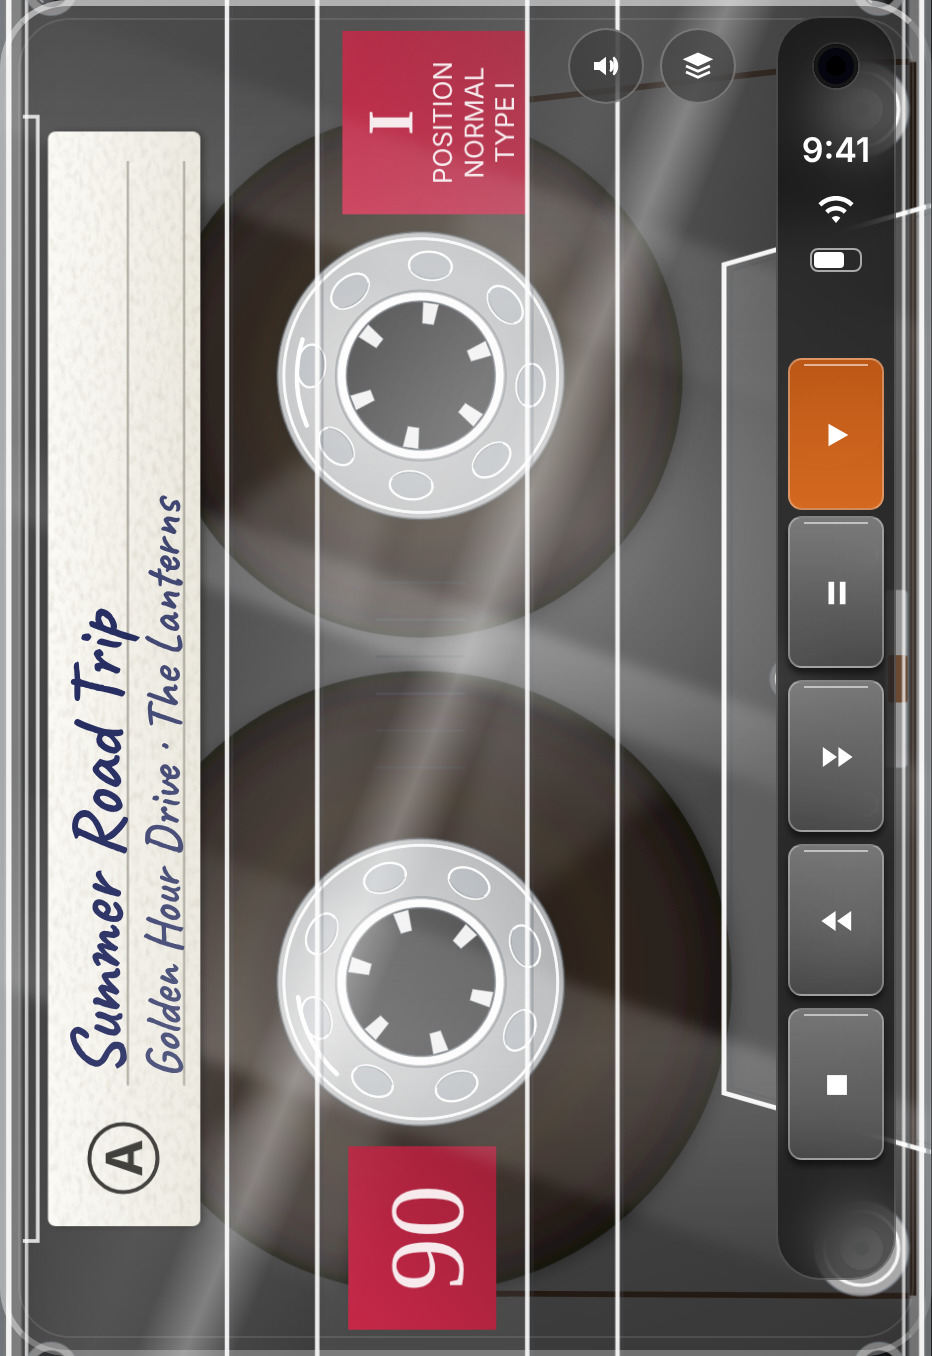
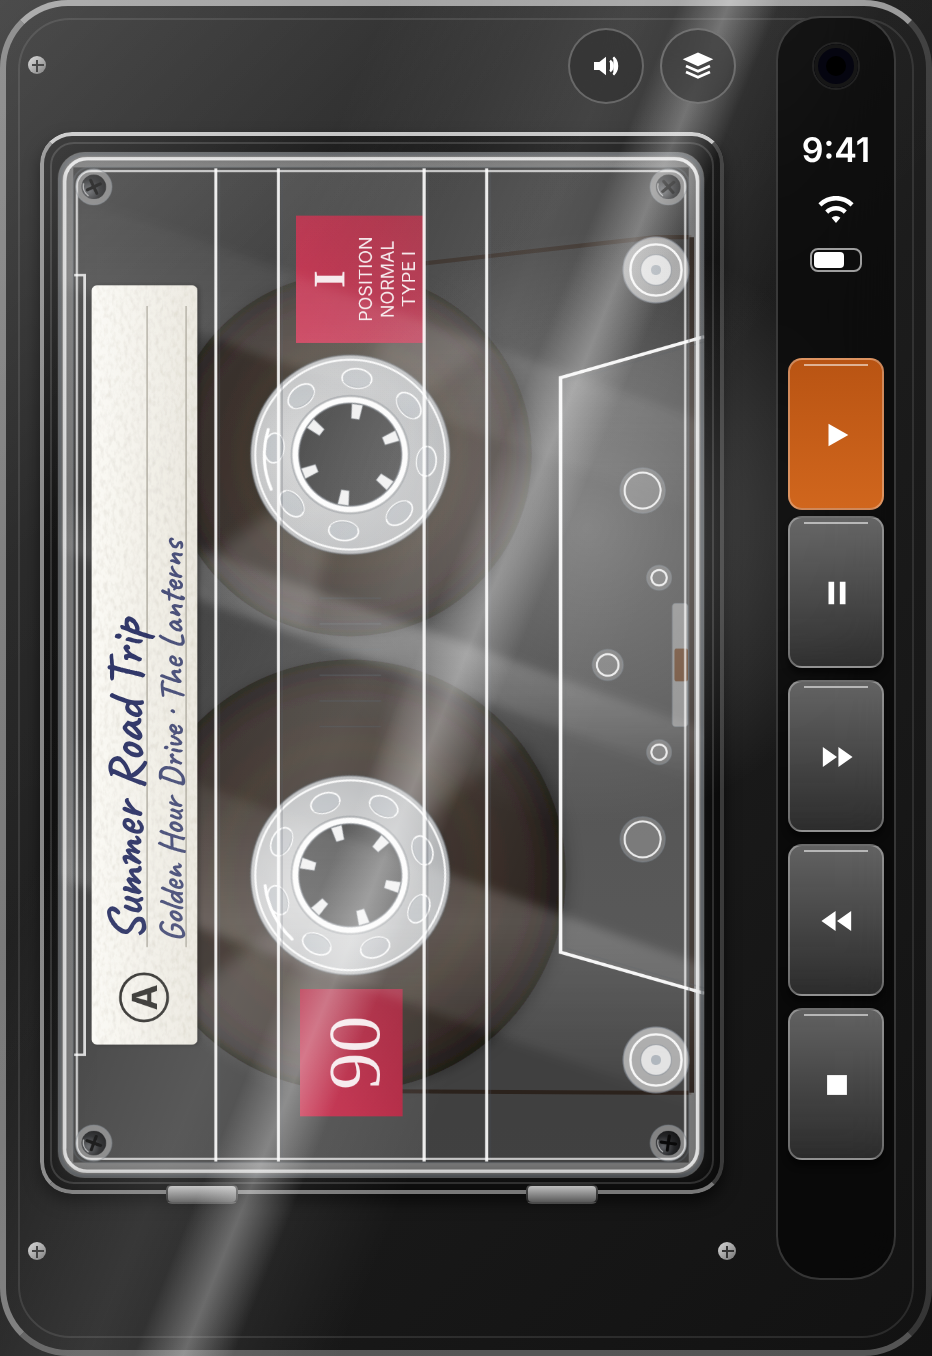
Seat the cassette inside the player body
The closed screen is now the body of the player, with the cassette in a
recessed compartment behind a clear hinged door instead of filling the
screen under floating controls.

Claude-Session: https://claude.ai/code/session_015CNmSEpanpmujmbPK8yXHv

diff --git a/TapeDeck/DeckView.swift b/TapeDeck/DeckView.swift
@@ -1,7 +1,8 @@
 import SwiftUI
 
-/// The closed phone: a tape player with a clear case. The cassette fills the
-/// whole screen, and the buttons and keys are clear plastic floating over it.
+/// The closed phone: the whole screen is the body of a tape player in dark
+/// clear plastic. The cassette sits inside it, seated in a recessed
+/// compartment behind a clear door, with the body wrapping around it.
 ///
 /// Laid out for the iPhone Duo's outer display: 466 x 678 points, with an
 /// 84 point column down one side that iOS reports as a safe area inset. The
@@ -40,10 +41,9 @@ struct DeckView: View {
                    height: geo.size.height + insets.top + insets.bottom)
             .background(
                 ZStack {
-                    // Dark inside of the player, seen through the clear case
-                    RadialGradient(colors: [Color(white: 0.17), Color(white: 0.03)],
-                                   center: .center, startRadius: 20, endRadius: 520)
-                    tape
+                    // The body of the player: dark smoked plastic
+                    LinearGradient(colors: [Color(white: 0.20), Color(white: 0.11), Color(white: 0.07)],
+                                   startPoint: .topLeading, endPoint: .bottomTrailing)
                     clearCase
                 }
             )
@@ -51,44 +51,111 @@ struct DeckView: View {
         }
     }
 
-    // MARK: Tape
+    // MARK: Cassette compartment
 
-    /// The cassette, scaled to fill the screen. It stands on end when the
-    /// screen is taller than wide. It may overflow the edges a little, but
-    /// never so far that the label is lost.
-    private var tape: some View {
+    /// The compartment the cassette sits in: a recessed well, the cassette
+    /// seated in it (on end when the space is taller than wide, head opening
+    /// toward the keys), and the clear door over the top with its hinges.
+    private var compartment: some View {
         GeometryReader { geo in
             let upright = geo.size.height > geo.size.width
-            let long = upright ? geo.size.height : geo.size.width
-            let short = upright ? geo.size.width : geo.size.height
-            let fit = min(long / 100, short / 63)
-            let fill = max(long / 100, short / 63)
-            let scale = min(fill, fit * 1.10)
+            let aspect: CGFloat = upright ? 0.63 : 1 / 0.63
+            let rim: CGFloat = 9
+            let width = max(10, min(geo.size.width - 2 * rim, (geo.size.height - 2 * rim - 8) * aspect))
+            let height = width / aspect
+            let shape = RoundedRectangle(cornerRadius: 16)
             ZStack {
+                // The well, with shadow falling in from its edges
+                shape.fill(LinearGradient(colors: [Color.black, Color(white: 0.06)],
+                                          startPoint: .top, endPoint: .bottom))
                 if model.hasTape {
                     CassetteView(title: model.tapeTitle,
                                  subtitle: model.trackLine,
                                  progress: model.progress,
                                  motion: model.motion)
-                        .frame(width: 100 * scale, height: 63 * scale)
+                        .frame(width: upright ? height : width, height: upright ? width : height)
                         .rotationEffect(.degrees(upright ? -90 : 0))
                         .transition(.move(edge: .top).combined(with: .opacity))
                 } else {
-                    VStack(spacing: 8) {
-                        Image(systemName: "eject.fill").font(.system(size: 30))
-                        Text("NO TAPE").font(.system(size: 16, weight: .bold)).tracking(3)
-                        Text("Tap to choose one").font(.system(size: 12))
-                    }
-                    .foregroundColor(Color.white.opacity(0.5))
+                    emptyWell(upright: upright, length: upright ? height : width)
                 }
+                shape.strokeBorder(Color.black.opacity(0.85), lineWidth: 9).blur(radius: 6)
+
+                // The clear door
+                shape.fill(Color.white.opacity(0.035))
+                shape.fill(LinearGradient(colors: [Color.white.opacity(0.14), Color.white.opacity(0.02), .clear],
+                                          startPoint: .topLeading, endPoint: .center))
+                RoundedRectangle(cornerRadius: 12)
+                    .strokeBorder(Color.white.opacity(0.14), lineWidth: 1)
+                    .padding(5)
             }
+            .frame(width: width + 2 * rim, height: height + 2 * rim)
+            .clipShape(shape)
+            // Bright moulded edge of the door
+            .overlay(
+                shape.strokeBorder(LinearGradient(colors: [Color.white.opacity(0.75), Color.white.opacity(0.18),
+                                                           Color.white.opacity(0.45)],
+                                                  startPoint: .topLeading, endPoint: .bottomTrailing),
+                                   lineWidth: 2.5)
+            )
+            // Hinges along the bottom edge
+            .overlay(alignment: .bottom) {
+                HStack(spacing: (width + 2 * rim) * 0.42) {
+                    hinge
+                    hinge
+                }
+                .offset(y: 5)
+            }
+            .shadow(color: .black.opacity(0.6), radius: 8, y: 4)
             .frame(width: geo.size.width, height: geo.size.height)
-            .clipped()
+            .contentShape(Rectangle())
+            .onTapGesture {
+                if !model.hasTape { openShelf() }
+            }
         }
     }
 
-    /// The clear shell over everything: a fixed reflection, the glare that
-    /// follows the phone as it moves, and bright edges where the plastic curves.
+    private var hinge: some View {
+        RoundedRectangle(cornerRadius: 3)
+            .fill(LinearGradient(colors: [Color(white: 0.75), Color(white: 0.35)],
+                                 startPoint: .top, endPoint: .bottom))
+            .overlay(RoundedRectangle(cornerRadius: 3).strokeBorder(Color.black.opacity(0.6), lineWidth: 0.75))
+            .frame(width: 36, height: 10)
+            .accessibilityHidden(true)
+    }
+
+    /// The well with nothing in it: the two drive spindles and a prompt.
+    private func emptyWell(upright: Bool, length: CGFloat) -> some View {
+        let u = length / 100
+        let spindle = ZStack {
+            Circle().fill(LinearGradient(colors: [Color(white: 0.55), Color(white: 0.2)],
+                                         startPoint: .topLeading, endPoint: .bottomTrailing))
+            ForEach(0..<3, id: \.self) { prong in
+                Capsule().fill(Color(white: 0.75))
+                    .frame(width: 1.6 * u, height: 4.4 * u)
+                    .offset(y: -3.4 * u)
+                    .rotationEffect(.degrees(Double(prong) * 120))
+            }
+            Circle().fill(Color(white: 0.12)).frame(width: 2.4 * u, height: 2.4 * u)
+        }
+        .frame(width: 8 * u, height: 8 * u)
+        let layout = upright ? AnyLayout(VStackLayout(spacing: 33 * u)) : AnyLayout(HStackLayout(spacing: 33 * u))
+        return ZStack {
+            layout {
+                spindle
+                spindle
+            }
+            VStack(spacing: 6) {
+                Image(systemName: "eject.fill").font(.system(size: 24))
+                Text("NO TAPE").font(.system(size: 14, weight: .bold)).tracking(3)
+                Text("Tap to choose one").font(.system(size: 11))
+            }
+            .foregroundColor(Color.white.opacity(0.5))
+        }
+    }
+
+    /// The surface of the body: a fixed reflection, the glare that follows the
+    /// phone as it moves, and bright edges where the plastic curves.
     private var clearCase: some View {
         ZStack {
             LinearGradient(colors: [Color.white.opacity(0.12), Color.white.opacity(0.02), .clear],
@@ -109,8 +176,9 @@ struct DeckView: View {
     // MARK: Face
 
     private var face: some View {
-        VStack(alignment: .leading, spacing: 10) {
-            HStack(alignment: .top, spacing: 8) {
+        VStack(spacing: 10) {
+            HStack(alignment: .center, spacing: 8) {
+                Screw()
                 Spacer(minLength: 4)
                 Button {
                     Haptics.keyDown()
@@ -129,12 +197,13 @@ struct DeckView: View {
             }
             .buttonStyle(ClearButtonStyle())
 
-            Spacer(minLength: 0)
-        }
-        .frame(maxWidth: .infinity, maxHeight: .infinity, alignment: .topLeading)
-        .contentShape(Rectangle())
-        .onTapGesture {
-            if !model.hasTape { openShelf() }
+            compartment
+
+            HStack {
+                Screw()
+                Spacer()
+                Screw()
+            }
         }
     }
 

diff --git a/README.md b/README.md
@@ -5,7 +5,7 @@ A cassette player for Apple Music. Your playlists and albums are tapes on a shel
 ## What it does
 
 * Plays your Apple Music library and anything from the Apple Music catalogue (MusicKit).
-* Closed phone (or any ordinary phone screen): a tape player with a dark, clear case. The cassette stands on end and fills the whole screen with its reels spinning. Glare on the case moves only when the phone moves: reflections slide as it tilts left and right, and a hot spot follows both tilts.
+* Closed phone (or any ordinary phone screen): the whole screen is the body of a tape player in dark clear plastic. The cassette sits inside it, on end, seated in a recessed compartment behind a clear hinged door, with its reels spinning. Glare on the body moves only when the phone moves: reflections slide as it tilts left and right, and a hot spot follows both tilts.
 * Built for the iPhone Duo's outer display, 466 x 678 points. iOS reserves an 84 point column down one side for the camera, clock and status icons; the five keys sit in that column underneath them. On other phones the keys get their own strip. Volume is on the phone's own buttons.
 * Haptics: a firm tap when a key goes down, a lighter one when it springs back, a heavy thud for the cassette door, and a soft pulse four times a second while the tape winds.
 * The cassette is a clear one. The shell front is see-through artwork (bright moulded edges and ridges, stickers, a stick-on paper label, guide rollers, black screws, reflections). Under it the whole reels, their clear hubs, the tape running down to the rollers and the handwriting on the label are drawn live. The artwork source is `tools/cassette-art.html`; `node tools/render-art.js` re-renders it.
